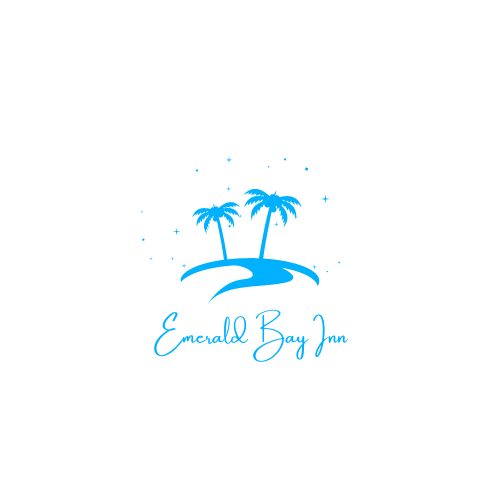
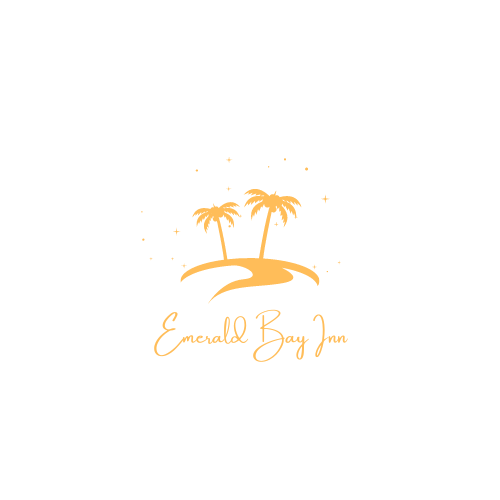
Hero complete

diff --git a/index.html b/index.html
@@ -6,8 +6,8 @@
     <meta http-equiv="X-UA-Compatible" content="IE=edge">
     <meta name="viewport" content="width=device-width, initial-scale=1.0">
     <title>Emerald Bay Hotel</title>
-    <link rel="stylesheet" href="./CSS/Style.css">
     <link rel="stylesheet" href="	https://cdn.jsdelivr.net/npm/bootstrap@5.2.3/dist/css/bootstrap.min.css">
+    <link rel="stylesheet" href="./CSS/Style.css">
     <link rel="stylesheet" href="https://cdnjs.cloudflare.com/ajax/libs/font-awesome/6.2.1/css/all.min.css">
 </head>
 
@@ -36,13 +36,55 @@
     </header>
     <!-- Nav bar ends -->
     <!-- Hero section -->
-    <div class="container text-center ">
-        <div class="row justify-content-start hero">
-            <div class="col-4">
-                f
+    <div class="container  hero">
+        <img src="./Images/HeroBanner.png" alt="">
+    </div>
+    <!-- Hero section end -->
+    <!-- Carousel -->
+    <div class="container-fluid carousell">
+        <h1 class="carousel-heading"> Expolre Beautiful Srilanka</h1>
+        <div id="carouselExampleCaptions" class="carousel slide" data-mdb-ride="carousel">
+            <div class="carousel-indicators">
+                <button type="button" data-mdb-target="#carouselExampleCaptions" data-mdb-slide-to="0" class="active" aria-current="true" aria-label="Slide 1"></button>
+                <button type="button" data-mdb-target="#carouselExampleCaptions" data-mdb-slide-to="1" aria-label="Slide 2"></button>
+                <button type="button" data-mdb-target="#carouselExampleCaptions" data-mdb-slide-to="2" aria-label="Slide 3"></button>
             </div>
+            <div class="carousel-inner">
+                <div class="carousel-item active">
+                    <img src="https://mdbcdn.b-cdn.net/img/new/slides/041.webp" class="d-block w-100" alt="Wild Landscape" />
+                    <div class="carousel-caption d-none d-md-block">
+                        <h5>First slide label</h5>
+                        <p>Nulla vitae elit libero, a pharetra augue mollis interdum.</p>
+                    </div>
+                </div>
+                <div class="carousel-item">
+                    <img src="https://mdbcdn.b-cdn.net/img/new/slides/042.webp" class="d-block w-100" alt="Camera" />
+                    <div class="carousel-caption d-none d-md-block">
+                        <h5>Second slide label</h5>
+                        <p>Lorem ipsum dolor sit amet, consectetur adipiscing elit.</p>
+                    </div>
+                </div>
+                <div class="carousel-item">
+                    <img src="https://mdbcdn.b-cdn.net/img/new/slides/043.webp" class="d-block w-100" alt="Exotic Fruits" />
+                    <div class="carousel-caption d-none d-md-block">
+                        <h5>Third slide label</h5>
+                        <p>Praesent commodo cursus magna, vel scelerisque nisl consectetur.</p>
+                    </div>
+                </div>
+            </div>
+            <button class="carousel-control-prev" type="button" data-mdb-target="#carouselExampleCaptions" data-mdb-slide="prev">
+              <span class="carousel-control-prev-icon" aria-hidden="true"></span>
+              <span class="visually-hidden">Previous</span>
+            </button>
+            <button class="carousel-control-next" type="button" data-mdb-target="#carouselExampleCaptions" data-mdb-slide="next">
+              <span class="carousel-control-next-icon" aria-hidden="true"></span>
+              <span class="visually-hidden">Next</span>
+            </button>
         </div>
     </div>
+
+    <!-- Carousel -->
 </body>
+<script src="https://cdn.jsdelivr.net/npm/bootstrap@5.2.3/dist/js/bootstrap.bundle.min.js"></script>
 
 </html>

diff --git a/CSS/Style.css b/CSS/Style.css
@@ -1,55 +1,89 @@
-/* Nav bar */
-
-.nav-logo img {
-    height: 90px;
-    margin-top: -10px;
-    float: left;
-}
-
-.nav-content {
-    align-items: center;
-    padding-left: 150px;
-    padding-top: 25px;
-}
-
-.nav-content ul {
-    list-style-type: none;
-    margin: 0;
-    padding: 0;
-    overflow: hidden;
-}
-
-.nav-content li {
-    float: left;
-    text-align: center;
-    margin-right: 15px;
-    font-weight: 700;
-}
-
-.nav-content li a {
-    display: block;
-    color: white;
-    text-align: center;
-    padding: 16px;
-    text-decoration: none;
-}
-
-.nav-content li a:hover {
-    background-color: #111111;
-}
-
-.nav-icons {
-    text-align: right;
-    padding-top: 25px;
-}
-
-
-/* Nav bar end*/
-
-
-/* Hero Section */
-
-.hero {
-    background-image: url(../Images/HeroBanner.png) no-repeat top center;
-    background-color: #111111;
-}
+ @import url('https://fonts.googleapis.com/css2?family=Poppins&family=Zen+Dots&display=swap');
+ * {
+     margin: 0;
+     padding: 0;
+     box-sizing: border-box;
+     font-family: 'Oswald', sans-serif;
+     font-weight: normal;
+ }
+ 
+ :root {
+     --main-color: #FF9A00;
+     --text-color: #9e9c9c;
+ }
+ 
+ html::-webkit-scrollbar {
+     width: 6px;
+ }
+ 
+ html::-webkit-scrollbar-track {
+     background: transparent;
+ }
+ 
+ html::-webkit-scrollbar-thumb {
+     background: var(--main-color);
+ }
+ /* Nav bar */
+ 
+ .nav-logo img {
+     height: 90px;
+     margin-top: -10px;
+     float: left;
+ }
+ 
+ .nav-content {
+     align-items: center;
+     padding-left: 150px;
+     padding-top: 25px;
+ }
+ 
+ .nav-content ul {
+     list-style-type: none;
+     margin: 0;
+     padding: 0;
+     overflow: hidden;
+ }
+ 
+ .nav-content li {
+     float: left;
+     text-align: center;
+     margin-right: 15px;
+     font-weight: 700;
+     color: #9e9c9c;
+ }
+ 
+ .nav-content li a {
+     display: block;
+     color: white;
+     text-align: center;
+     padding: 16px;
+     text-decoration: none;
+ }
+ 
+ .nav-content li a:hover {
+     background-color: #111111;
+ }
+ 
+ .nav-icons {
+     text-align: right;
+     padding-top: 25px;
+ }
+ /* Nav bar end*/
+ /* Hero Section */
+ 
+ .hero {
+     width: 100%;
+     height: 100vh;
+     object-fit: cover;
+ }
+ 
+ .carousel-heading {
+     text-align: center;
+     font-weight: 600;
+     color: var(--main-color);
+     padding-bottom: 50px;
+ }
+ 
+ .carousell {
+     align-items: center;
+ }
